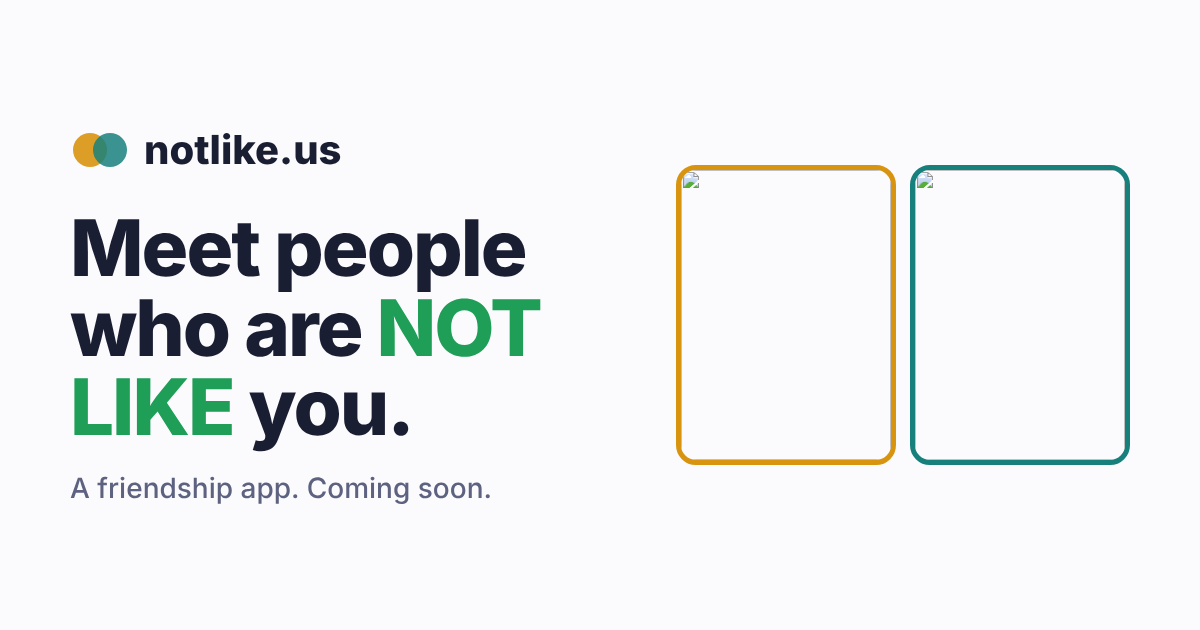
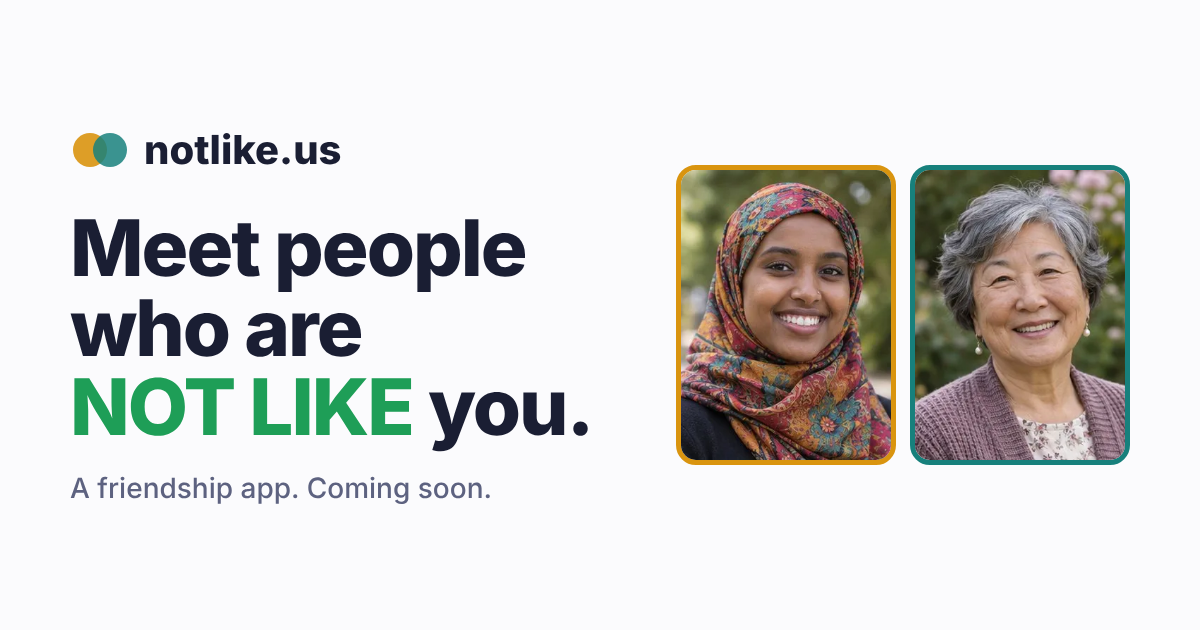
Lead with Fatima and Grace; Hassan and Dale as the individuals example
Claude-Session: https://claude.ai/code/session_01WW95L1MysLLeqCpAW9NmUt

Changed region(s): [[0.555, 0.2714, 0.9558, 0.754], [0.0617, 0.4524, 0.4933, 0.7238]]

diff --git a/src/pages/index.html b/src/pages/index.html
@@ -15,14 +15,14 @@
 
     <figure class="match" style="margin:0" aria-label="Example of a notlike.us match">
       <div class="faces">
-        <div class="face"><img src="/img/p13.webp" alt="Dale, a small-town Texas pastor" width="400" height="537"><span>Dale, pastor</span></div>
+        <div class="face"><img src="/img/p15.webp" alt="Fatima, a Somali-American nursing student" width="400" height="537"><span>Fatima, nursing student</span></div>
         <div class="swap" aria-hidden="true"><svg width="18" height="18" viewBox="0 0 24 24" fill="none" stroke="currentColor" stroke-width="2.6" stroke-linecap="round" stroke-linejoin="round"><path d="M7 7h12l-3-3M17 17H5l3 3"/></svg></div>
-        <div class="face them"><img src="/img/p14.webp" alt="Ben, an atheist software developer" width="400" height="537"><span>Ben, developer</span></div>
+        <div class="face them"><img src="/img/p16.webp" alt="Grace, a Korean-American church deacon" width="400" height="537"><span>Grace, church deacon</span></div>
       </div>
       <div class="diffs">
-        <div class="diff"><b>Faith</b><span class="y">Christian</span><span class="t">Atheist</span></div>
-        <div class="diff"><b>Politics</b><span class="y">Conservative</span><span class="t">Progressive</span></div>
-        <div class="diff"><b>Grew up</b><span class="y">Small town</span><span class="t">Big city</span></div>
+        <div class="diff"><b>Faith</b><span class="y">Muslim</span><span class="t">Christian</span></div>
+        <div class="diff"><b>Generation</b><span class="y">Gen Z</span><span class="t">Baby Boomer</span></div>
+        <div class="diff"><b>Grew up</b><span class="y">Minneapolis</span><span class="t">Seoul, Korea</span></div>
       </div>
       <figcaption class="count">3 ways they&rsquo;re different. Both said hello.</figcaption>
     </figure>
@@ -50,12 +50,12 @@
       <div class="pairs">
         <div class="pair">
           <div class="faces">
-            <div class="face"><img src="/img/p14.webp" alt="Ben" width="400" height="537" loading="lazy"></div>
+            <div class="face"><img src="/img/p12.webp" alt="Hassan" width="400" height="537" loading="lazy"></div>
             <div class="swap" aria-hidden="true"><svg width="14" height="14" viewBox="0 0 24 24" fill="none" stroke="currentColor" stroke-width="2.6" stroke-linecap="round" stroke-linejoin="round"><path d="M7 7h12l-3-3M17 17H5l3 3"/></svg></div>
             <div class="face them"><img src="/img/p13.webp" alt="Dale" width="400" height="537" loading="lazy"></div>
           </div>
           <h3>Individuals</h3>
-          <p>An atheist software developer from Pasadena and a pastor from small-town Texas.</p>
+          <p>A Muslim dentist who grew up in Tehran and a pastor from small-town Texas.</p>
         </div>
         <div class="pair">
           <div class="faces">
